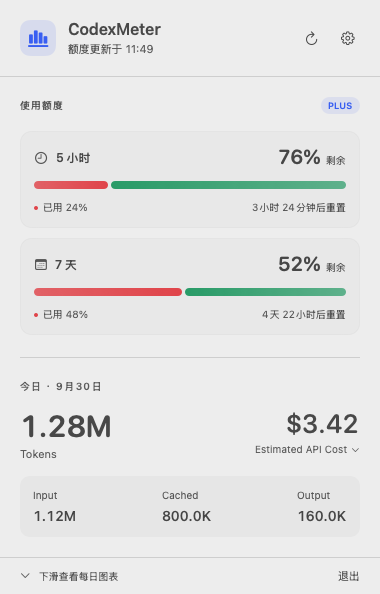
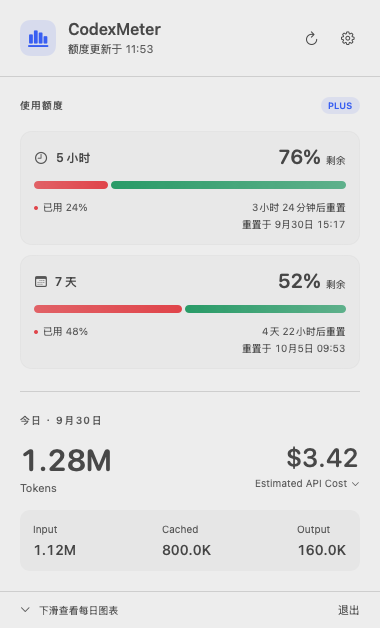
feat: show exact quota reset times in dashboard

diff --git a/Sources/CodexMeter/DashboardView.swift b/Sources/CodexMeter/DashboardView.swift
@@ -304,13 +304,21 @@ private struct LimitRow: View {
             }
             QuotaBar(fraction: window?.usedFraction)
             TimelineView(.periodic(from: .now, by: 60)) { context in
-                HStack(spacing: 5) {
+                HStack(alignment: .top, spacing: 5) {
                     if let window {
-                        Circle().fill(MeterPalette.used).frame(width: 4, height: 4)
-                        Text("已用 \(Int(min(100, max(0, window.usedPercent)).rounded()))%")
+                        HStack(spacing: 5) {
+                            Circle().fill(MeterPalette.used).frame(width: 4, height: 4)
+                            Text("已用 \(Int(min(100, max(0, window.usedPercent)).rounded()))%")
+                        }
                     }
                     Spacer()
-                    Text(window.map { Display.reset($0.resetDate, now: context.date) } ?? "服务端未提供该周期额度")
+                    VStack(alignment: .trailing, spacing: 4) {
+                        Text(window.map { Display.reset($0.resetDate, now: context.date) } ?? "服务端未提供该周期额度")
+                        if let date = window?.resetDate {
+                            Text("重置于 \(Display.resetTime(date, now: context.date))")
+                                .monospacedDigit()
+                        }
+                    }
                 }.font(.system(size: 10)).foregroundStyle(.secondary)
             }.help(window?.resetDate?.formatted(date: .complete, time: .standard) ?? "")
         }

diff --git a/Sources/CodexMeter/AppModel.swift b/Sources/CodexMeter/AppModel.swift
@@ -126,4 +126,12 @@ enum Display {
         if minutes >= 60 { return "\(minutes / 60)小时 \(minutes % 60)分钟后重置" }
         return "\(minutes)分钟后重置"
     }
+    static func resetTime(_ date: Date, now: Date = Date()) -> String {
+        let formatter = DateFormatter()
+        formatter.locale = Locale(identifier: "zh_CN")
+        formatter.timeZone = .autoupdatingCurrent
+        formatter.dateFormat = Calendar.current.component(.year, from: date) == Calendar.current.component(.year, from: now)
+            ? "M月d日 HH:mm" : "yyyy年M月d日 HH:mm"
+        return formatter.string(from: date)
+    }
 }

diff --git a/README.md b/README.md
@@ -16,7 +16,7 @@
 
 ![CodexMeter 菜单栏深浅外观预览](docs/images/menu-bar-preview.png)
 
-**弹框首屏**：展示 5 小时 / 7 天额度、今日 Token 和估算费用，下滑可查看每日图表。
+**弹框首屏**：展示 5 小时 / 7 天额度、今日 Token 和估算费用；额度卡片同时显示倒计时和本机时区的具体重置日期、时间，下滑可查看每日图表。
 
 ![CodexMeter 弹框首屏预览](docs/images/dashboard-preview.png)
 
